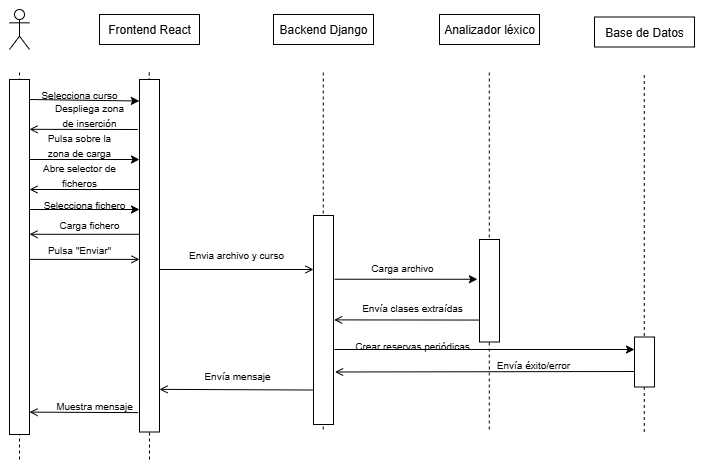
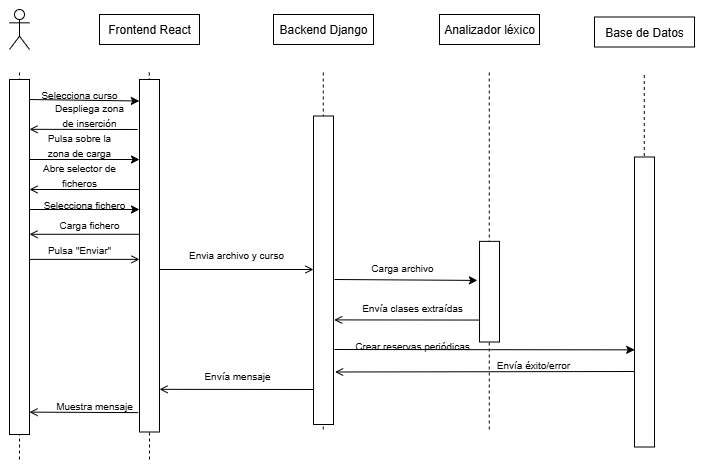
Últimas correcciones documentación

diff --git a/doc/tex/B_Requisitos.tex b/doc/tex/B_Requisitos.tex
@@ -63,25 +63,25 @@ En este apartado se detallan todos los requisitos que debe  satisfacer la aplica
 		\item RF-04.4. Gestionar permisos.
 		\\La aplicación deberá de permitir asociar permisos concretos a cada rol definido en el sistema. Estos permisos lo que harán será determinar que operaciones o acciones puede realizar cada usuario sobre las reservas, informes, usuarios,... Permitiendo controlar de forma precisa el acceso a las distintas acciones, implantando un modelo de seguridad basado en los roles.
 	\end{itemize}
-	\item RF-06. Gestión de usuarios. 
+	\item RF-05. Gestión de usuarios. 
 	\\En este caso, como se ha mencionado en el requisito de la autenticación, esta funcionalidad será controlada mediante las credenciales asignadas a cada miembro de la universidad por la misma. De forma, que solo podrán existir usuarios que hayan sido designados por la misma institución. Pudiendo acceder usuarios que no se encuentren en base de datos, o editándolos que en este caso, serían los permisos y el rol asociado.
 	\begin{itemize}
-		\item RF-06.1. Crear usuario.
+		\item RF-05.1. Crear usuario.
 		\\El sistema deberá permitir que cuando un usuario no se encuentre en base de datos podrá iniciar sesión asignándole por defecto el rol de PDI. Aunque el sistema deberá permitir también que el administrador añada a usuarios asignándole el rol que crea necesario.
-		\item RF-06.2. Editar usuario.
+		\item RF-05.2. Editar usuario.
 		\\Como ya se ha mencionado, el sistema permitirá la edición de los usuarios será respecto a los roles asociado modificando su entrada en base de datos. Debido a que las credenciales no podrán ser modificadas por el sistema, sino que de eso se encargaría el sistema de la institución.
-		\item RF-06.3. Eliminar usuario.
+		\item RF-05.3. Eliminar usuario.
 		\\El sistema permitirá al usuario con permisos poder eliminar la entrada en base de datos del usuario correspondiente, eliminando así el rol asociado, de forma que cuando entre se le asignará el rol de PDI. Ya que denegar el acceso no dependerá del sistema de este proyecto.
 	\end{itemize}
-	\item RF-07. Cargar horarios desde hoja de cálculo.
+	\item RF-06. Cargar horarios desde hoja de cálculo.
 	\\ La aplicación deberá permitir la carga de horarios docentes a partir de una hoja de cálculo, con la estructura específica y unificada con las reglas expuestas. Esta funcionalidad permitirá transformar la información contenida en el fichero en reservas periódicas dentro del sistema, evitando que el gestor tenga que introducir de forma manualmente cada una de las clases. Además, permite automatizar la generación de reservas periódicas asociadas a la docencia a través del analizador léxico, y las generará teniendo en cuenta el calendario académico.
 	
-	\item RF-08. Gestión del calendario académico.
+	\item RF-07. Gestión del calendario académico.
 	\\ La aplicación deberá permitir la gestión del calendario académico utilizado para la generación y validación de reservas periódicas. Este calendario será la base para determinar los días lectivos, los periodos de docencia de cada cuatrimestre, los cambios de docencia, los días festivos, los periodos de exámenes y los periodos de solamente TFG. De esta forma, el sistema podrá crear las reservas docentes de manera coherente con la planificación oficial de la universidad, evitando generar ocupaciones en fechas en las que no exista actividad académica.
 	\begin{itemize}
-		\item RF-08.1. Crear calendario académico.
+		\item RF-07.1. Crear calendario académico.
 		\\ La aplicación deberá permitir al usuario autorizado crear un calendario académico. Para ello, se deberán introducir los datos principales, como el curso académico, la fecha de inicio y de fin del curso, los periodos de docencia, es decir, las fechas de inicio y de fin de ambos cuatrimestres, y los días lectivos.
-		\item RF-08.2. Editar calendario académico. 
+		\item RF-07.2. Editar calendario académico. 
 		\\El sistema debe permitir modificar el calendario existente, siempre que el usuario tenga los permisos necesarios. Se podrá modificar el tipo de día de uno en uno, o mediante rangos de fechas seleccionadas, permitiendo seleccionar el tipo de día al que quieren actualizarlo.
 	\end{itemize}
 \end{itemize}
@@ -162,7 +162,7 @@ A continuación, se describen los casos de uso identificados para el sistema. Ca
 		\toprule
 		\textbf{Versión}              & 1.0    \\
 		\textbf{Autor}                & Rebeca Cuesta Estépar \\
-		\textbf{Requisitos asociados} &  \\ RF-06
+		\textbf{Requisitos asociados} &  \\ RF-05
 		\textbf{Descripción}          & El administrador puede crear, modificar y eliminar entradas de usuario del sistema, se corresponderá al rol del usuario, ya que las credenciales no las comprueba la base de datos propia. Incluye búsqueda y listado de los usuarios. \\
 		\textbf{Precondición}         & El administrador tiene que estar autenticado, tiene que disponer de los permisos para la gestión de usuarios y la base de datos tiene que estar disponible. \\
 		\textbf{Acciones}             &
@@ -271,7 +271,7 @@ A continuación, se describen los casos de uso identificados para el sistema. Ca
 		\toprule
 		\textbf{Versión} & 1.0 \\
 		\textbf{Autor} & Rebeca Cuesta Estépar \\
-		\textbf{Requisitos asociados} & RF-05 \\
+		\textbf{Requisitos asociados} &  \\
 		\textbf{Descripción} & El administrador gestiona las entidades principales utilizadas por la aplicación, como aulas, grados, asignaturas, docentes, responsables e imparte. Esta gestión permite mantener actualizada la información base sobre la que posteriormente se crearán horarios, reservas puntuales y reservas periódicas. \\
 		\textbf{Precondición} & El administrador debe estar autenticado, disponer de permisos de administración y la base de datos debe estar disponible. \\
 		\textbf{Acciones} &
@@ -307,7 +307,7 @@ A continuación, se describen los casos de uso identificados para el sistema. Ca
 		\toprule
 		\textbf{Versión}              & 1.0    \\
 		\textbf{Autor}                & Rebeca Cuesta Estépar \\
-		\textbf{Requisitos asociados} &  \\
+		\textbf{Requisitos asociados} & RF-07 \\
 		\textbf{Descripción}          & El administrador o gestor carga en el sistema un horario de otro año\\
 		\textbf{Precondición}         & Que sea un usuario con permisos y que la base de datos se encuentre disponible para recoger los datos cargados \\
 		\textbf{Acciones}             &
@@ -380,7 +380,7 @@ A continuación, se describen los casos de uso identificados para el sistema. Ca
 		\toprule
 		\textbf{Versión}              & 1.0    \\
 		\textbf{Autor}                & Rebeca Cuesta Estépar \\
-		\textbf{Requisitos asociados} & RF-04 \\
+		\textbf{Requisitos asociados} &  \\
 		\textbf{Descripción}          & El administrador o el gestor consulta la ocupación del aula para una fecha específica o semanal (solo aparecen las reservas periódicas). El sistema muestra un horario con las horas que se encuentra ocupada o disponible al aula, en función del horario y de las reservas puntuales si así se requiere.\\
 		\textbf{Precondición}         & Que sea un usuario autenticado con el rol de gestor o de administrador, que los horarios y las reservas se encuentren cargadas en el sistema y que la base de datos esté disponible. \\
 		\textbf{Acciones}             &
@@ -416,7 +416,7 @@ A continuación, se describen los casos de uso identificados para el sistema. Ca
 		\toprule
 		\textbf{Versión}              & 1.0    \\
 		\textbf{Autor}                & Rebeca Cuesta Estépar \\
-		\textbf{Requisitos asociados} &  \\
+		\textbf{Requisitos asociados} & RF-03.1 \\
 		\textbf{Descripción}          & El administrador o gestor crea una reserva puntual de un aula en una fecha y un horario correcto, validando la disponibilidad. \\
 		\textbf{Precondición}         &  El usuario autenticado tiene que tener los permisos, que exista el aula y esté disponible y la base de datos y las restricciones se encuentren disponibles también.\\
 		\textbf{Acciones}             &
@@ -453,7 +453,7 @@ A continuación, se describen los casos de uso identificados para el sistema. Ca
 		\toprule
 		\textbf{Versión}              & 1.0    \\
 		\textbf{Autor}                & Rebeca Cuesta Estépar \\
-		\textbf{Requisitos asociados} &  \\
+		\textbf{Requisitos asociados} & RF-03 \\
 		\textbf{Descripción}          & El gestor o administrador revisa el estado de las solicitudes de reserva \\
 		\textbf{Precondición}         & El usuario tiene que estar autenticado y ha de tener los permisos, deben de existir solicitudes de reservas y la base de datos y las restricciones han de estar disponibles \\
 		\textbf{Acciones}             &
@@ -488,7 +488,7 @@ A continuación, se describen los casos de uso identificados para el sistema. Ca
 		\toprule
 		\textbf{Versión}              & 1.0    \\
 		\textbf{Autor}                & Rebeca Cuesta Estépar \\
-		\textbf{Requisitos asociados} &  \\
+		\textbf{Requisitos asociados} & RF-03.2 \\
 		\textbf{Descripción}          & El gestor o administrador decide modificar uno de los campos de la solicitud de reserva, y el sistema avisará al responsable de la reserva del cambio realizado \\
 		\textbf{Precondición}         & El usuario tiene que estar autenticado y ha de tener los permisos, deben de existir solicitudes de reservas y la base de datos y las restricciones han de estar disponibles \\
 		\textbf{Acciones}             &
@@ -527,7 +527,7 @@ A continuación, se describen los casos de uso identificados para el sistema. Ca
 		\toprule
 		\textbf{Versión}              & 1.0    \\
 		\textbf{Autor}                & Rebeca Cuesta Estépar \\
-		\textbf{Requisitos asociados} &  \\
+		\textbf{Requisitos asociados} & RF-03 \\
 		\textbf{Descripción}          & El administrador o gestor revisa las reservas puntuales solicitadas por los usuarios y decide su aprobación o rechazo según la disponibilidad. \\
 		\textbf{Precondición}         &  El usuario debe de tener permisos para poder aprobar o rechazar las solicitudes, tienen que existir reservas pendientes en el sistema, y la base de datos tiene que estar disponible\\
 		\textbf{Acciones}             &
@@ -575,7 +575,7 @@ A continuación, se describen los casos de uso identificados para el sistema. Ca
 		\toprule
 		\textbf{Versión}              & 1.0    \\
 		\textbf{Autor}                & Rebeca Cuesta Estépar \\
-		\textbf{Requisitos asociados} &  \\
+		\textbf{Requisitos asociados} & RF-03 \\
 		\textbf{Descripción}          & El gestor o administrador puede crear, modificar o eliminar reservas puntuales existentes, validando que no se violen las restricciones \\
 		\textbf{Precondición}         & El usuario debe tener los permisos de gestionar las reservas, que estas se encuentren registradas y la base de datos y las validaciones se encuentren disponibles \\
 		\textbf{Acciones}             &
@@ -622,7 +622,7 @@ A continuación, se describen los casos de uso identificados para el sistema. Ca
 		\toprule
 		\textbf{Versión}              & 1.0    \\
 		\textbf{Autor}                & Rebeca Cuesta Estépar \\
-		\textbf{Requisitos asociados} &  \\
+		\textbf{Requisitos asociados} & RF-03 \\
 		\textbf{Descripción}          & El gestor o administrador puede consultar el horario de grado. El sistema muestra las clases planificadas con su aula y hora.  \\
 		\textbf{Precondición}         &  El usuario autenticado tiene permisos , los horarios de los grados deben de estar cargados en el sistema y la base de datos tiene que estar disponible \\
 		\textbf{Acciones}             &
@@ -657,7 +657,7 @@ A continuación, se describen los casos de uso identificados para el sistema. Ca
 		\toprule
 		\textbf{Versión}              & 1.0    \\
 		\textbf{Autor}                & Rebeca Cuesta Estépar \\
-		\textbf{Requisitos asociados} & RF-6.2 \\
+		\textbf{Requisitos asociados} & RF-03 \\
 		\textbf{Descripción}          & El gestor o administrador crea, edita y elimina las reservas durante el periodo especificado, con la frecuencia especificada.  \\
 		\textbf{Precondición}         & Que sea un usuario autenticado con los permisos de reservas, los aulas y horarios disponibles estén cargados, y la base de datos se encuentre disponible.\\
 		\textbf{Acciones}             &
@@ -706,7 +706,7 @@ A continuación, se describen los casos de uso identificados para el sistema. Ca
 		\toprule
 		\textbf{Versión} & 1.0 \\
 		\textbf{Autor} & Rebeca Cuesta Estépar \\
-		\textbf{Requisitos asociados} & RF-08 \\
+		\textbf{Requisitos asociados} & RF-07 \\
 		\textbf{Descripción} & El gestor editor crea un nuevo calendario académico para un curso concreto, indicando los periodos docentes, días lectivos, festivos.\\
 		\textbf{Precondición} & El usuario debe estar autenticado, tener permisos de edición sobre el calendario académico y la base de datos debe estar disponible. \\
 		\textbf{Acciones} &
@@ -742,7 +742,7 @@ A continuación, se describen los casos de uso identificados para el sistema. Ca
 		\toprule
 		\textbf{Versión}              & 1.0    \\
 		\textbf{Autor}                & Rebeca Cuesta Estépar \\
-		\textbf{Requisitos asociados} &  \\
+		\textbf{Requisitos asociados} & RF-07 \\
 		\textbf{Descripción}          & El gestor o administrador puede consultar el calendario académico de la politécnica. El sistema mostrará el calendario indicando los días lectivos correspondientes a ambos semestres, los días correspondientes a exámenes de convocatoria, a TFG, los días festivos y los días que se produce un cambio de docencia.  \\
 		\textbf{Precondición}         &  El usuario autenticado tiene permisos, los tipos de día deben de estar cargados en el sistema y la base de datos tiene que estar disponible \\
 		\textbf{Acciones}             &
@@ -775,7 +775,7 @@ A continuación, se describen los casos de uso identificados para el sistema. Ca
 		\toprule
 		\textbf{Versión}              & 1.0    \\
 		\textbf{Autor}                & Rebeca Cuesta Estépar \\
-		\textbf{Requisitos asociados} &  \\
+		\textbf{Requisitos asociados} & RF-07 \\
 		\textbf{Descripción}          & El gestor o administrador modifica el tipo de día en el calendario académico. El sistema cambiará el tipo de día que había anteriormente por el seleccionado, y actualizará la información en la base de datos. \\
 		\textbf{Precondición}         &  El usuario autenticado tenga los permisos, que el calendario se encuentre cargado y que la base de datos esté disponible \\
 		\textbf{Acciones}             &
@@ -849,7 +849,7 @@ A continuación, se describen los casos de uso identificados para el sistema. Ca
 		\toprule
 		\textbf{Versión} & 1.0 \\
 		\textbf{Autor} & Rebeca Cuesta Estépar \\
-		\textbf{Requisitos asociados} & RF-02 \\
+		\textbf{Requisitos asociados} & RF-03 \\
 		\textbf{Descripción} & El PDI consulta las reservas y solicitudes que ha realizado, pudiendo comprobar su estado y visualizar la información asociada a cada una de ellas. \\
 		\textbf{Precondición} & El PDI debe estar autenticado y deben existir reservas o solicitudes asociadas a su usuario. \\
 		\textbf{Acciones} &
@@ -908,50 +908,4 @@ A continuación, se describen los casos de uso identificados para el sistema. Ca
 		\bottomrule
 	\end{tabularx}
 	\caption{CU-20 Editar reservas propias}
-\end{table}
-
-\begin{table}[p]
-	\centering
-	\begin{tabularx}{\linewidth}{ p{0.21\columnwidth} p{0.71\columnwidth} }
-		\toprule
-		\textbf{CU-22}    & \textbf{Gestión solicitud de reservas}\\
-		\toprule
-		\textbf{Versión}              & 1.0    \\
-		\textbf{Autor}                & Rebeca Cuesta Estépar \\
-		\textbf{Requisitos asociados} &  \\
-		\textbf{Descripción}          & El profesorado (PDI) puede solicitar reservas puntuales de aulas, y consultar el estado de sus solicitudes para ver si han sido procesadas, y en el caso de que sí, ver si han sido aprobadas o rechazadas \\
-		\textbf{Precondición}         & El usuario debe de estar autenticado, el aula solicitada debe de estar disponible y la base de datos y las restricciones disponibles \\
-		\textbf{Acciones}             &
-		\begin{enumerate}
-			\def\labelenumi{\arabic{enumi}.}
-			\tightlist
-			\item El PDI accede al apartado \emph{Mis solicitudes de reserva}
-			\item El sistema le muestra las opciones disponibles que son solicitar una nueva reserva o consultar el estado de las solicitudes
-			\item El PDI pulsa en \emph{Nueva solicitud}
-			\begin{enumerate}[label*=\arabic*., itemsep=0.5pt, topsep=0.5pt, leftmargin=1em]
-				\tightlist
-				\item El sistema muestra un formulario con los campos: fecha, hora inicio y fin, motivo, capacidad
-				\item El PDI completa los campos y envía la solicitud
-				\item El sistema añade la primera aula que cumpla con las restricciones
-				\item El sistema registra la solicitud con el estado \emph{Pendiente}
-			\end{enumerate}
-			\item El PDI selecciona la opción de \emph{Consultar estado}
-			\begin{enumerate}[label*=\arabic*., itemsep=0.5pt, topsep=0.5pt, leftmargin=1em]
-				\tightlist
-				\item El sistema muestra un listado con las solicitudes del usuario
-				\item El usuario puede filtrar por fechas o estado
-				\item El sistema actualiza la lista de acuerdo a los filtros
-			\end{enumerate}
-		\end{enumerate}\\
-		\textbf{Postcondición} & La solicitud de reserva queda creada con estado Pendiente, y el usuario puede consultar el estado de las solicitudes realizadas \\
-		\textbf{Excepciones}          &  
-		\begin{itemize}
-			\tightlist
-			\item \textbf{Ex1:} Ningún aula disponible para los datos introducidos \textrightarrow{} impedir envío y solicitar cambiar datos
-			\item \textbf{Ex2:} Solicitud duplicada \textrightarrow{} informar y evitar creación
-		\end{itemize}\\
-		\textbf{Importancia}          & Media-Alta \\
-		\bottomrule
-	\end{tabularx}
-	\caption{CU-22 Gestión solicitud de reservas}
 \end{table}

diff --git a/doc/tex/D_Manual_programador.tex b/doc/tex/D_Manual_programador.tex
@@ -12,14 +12,14 @@ El proyecto se organiza separando el código del \textit{backend} y del \textit{
 
 \section{Estructura de directorios}
 
-La estructura del proyecto se organiza separando la parte correspondiente al \textit{backend} y la parte correspondiente al \textit{frontend}. Esta división permite diferenciar claramente la lógica de negocio y acceso a datos, desarrollada con Django, de la interfaz de usuario, desarrollada con React. Por otro lado, tenemos el \textit{script SQL} de la base de datos llamado "BaseDeDatosHorario.sql", que se encuentra a la misma altura que el directorio del \textit{frontend} y del \textit{backend}.
+La estructura del proyecto se organiza separando la parte correspondiente al \textit{backend} y la parte correspondiente al \textit{frontend}. Esta división permite diferenciar claramente la lógica de negocio y acceso a datos, desarrollada con Django, de la interfaz de usuario, desarrollada con React. Por otro lado, el proyecto incluye un \textit{script SQL} de la base de datos llamado "BaseDeDatosHorario.sql", que se encuentra a la misma altura que el directorio del \textit{frontend} y del \textit{backend}.
 
 En los siguientes apartados se describe la organización de ambos bloques, indicando la finalidad de los principales directorios y ficheros que forman parte del proyecto. Esta explicación facilita la comprensión del código fuente y permite que otros desarrolladores puedan localizar de forma más sencilla los módulos principales de la aplicación.
 
 
 \subsection{Backend}
 
-El \textit{backend} de la aplicación se encuentra desarrollado con Django y contiene la lógica principal del sistema. En esta parte del proyecto se gestionan los modelos de datos, las rutas, las vistas, la autenticación, la comunicación con la base de datos y las operaciones relacionadas con horarios, reservas, calendario académico, aulas, docencia y usuarios.
+El \textit{backend} de la aplicación se ha desarrollado con Django y contiene la lógica principal del sistema. En esta parte del proyecto se gestionan los modelos de datos, las rutas, las vistas, la autenticación, la comunicación con la base de datos y las operaciones relacionadas con horarios, reservas, calendario académico, aulas, docencia y usuarios.
 
 En la Figura~\ref{fig:estructura-directorios-backend} se muestra la estructura principal de directorios correspondiente al \textit{backend} del proyecto.
 
@@ -113,7 +113,7 @@ El directorio \textit{login} contiene la pantalla de inicio de sesión y los ele
 
 El directorio \textit{reservas} agrupa las pantallas y componentes relacionados con la gestión de reservas puntuales y periódicas, incluyendo listados, formularios de creación y edición, y acciones asociadas a las solicitudes.
 
-Finalmente, el directorio \textit{shared} contiene elementos compartidos por diferentes módulos del \textit{frontend}, permitiendo reutilizar código común y mantener una estructura más organizada.
+Finalmente, el directorio \textit{shared} contiene elementos compartidos por diferentes módulos del \textit{frontend} como la modal de confirmación para eliminar, permitiendo reutilizar código común y mantener una estructura más organizada.
 
 Además de estos directorios, aparecen varios ficheros relevantes en la raíz del proyecto. El archivo \textit{App.jsx} define la estructura principal de la aplicación React y la organización general de sus rutas o componentes principales. El archivo \textit{main.jsx} actúa como punto de entrada de la aplicación. Los ficheros \textit{App.css} e \textit{index.css} contienen estilos globales utilizados por la interfaz.
 
@@ -236,6 +236,22 @@ Las pantallas que permiten crear o editar información utilizan formularios cont
 
 Cuando el usuario confirma una operación, el componente recoge los valores almacenados en el estado, realiza las comprobaciones necesarias en la interfaz y envía los datos al \textit{backend}. Posteriormente, en función de la respuesta recibida, se muestra un mensaje de confirmación o de error.
 
+\subsection{Modificación y mantenimiento del analizador de horarios}
+
+Una de las partes más importantes del proyecto es el analizador encargado de procesar los horarios proporcionados en formato Excel. Este componente permite interpretar la información contenida en la hoja de cálculo, identificar asignaturas, grupos, aulas, días y franjas horarias, y transformar dichos datos en reservas periódicas dentro de la aplicación.
+
+Debido a la importancia de este proceso, cualquier modificación sobre el analizador debe realizarse con especial cuidado. Antes de aplicar cambios directamente sobre el código integrado en la aplicación, se recomienda realizar las pruebas iniciales en el \textit{notebook} utilizado durante el desarrollo. Este \textit{notebook} ha servido como entorno de prueba para validar el funcionamiento del parser, comprobar la clasificación de celdas, revisar las expresiones regulares y verificar que la información extraída del Excel se interpreta correctamente.
+
+El uso del \textit{notebook} permite probar cambios de forma más rápida y controlada, sin afectar directamente al funcionamiento del sistema completo. Por ello, si se necesita modificar alguna regla de lectura, clasificación o normalización, es conveniente comprobar primero el resultado en dicho entorno y, una vez validado, trasladar los cambios al código definitivo de la aplicación.
+
+Para realizar pruebas sobre la carga de horarios se recomienda utilizar el fichero Excel situado en la carpeta de prototipos del proyecto. Este fichero se encuentra normalizado y adaptado al formato esperado por el analizador, por lo que permite comprobar el comportamiento del parser en un escenario controlado. En caso de que sea necesario modificar este Excel o crear uno nuevo, se deben revisar previamente las reglas definidas en la penúltima hoja del libro, donde se recogen las pautas utilizadas para estructurar la información.
+
+Estas reglas son importantes porque el analizador depende de una serie de patrones y estructuras para identificar correctamente los elementos del horario. Entre ellos se encuentran los nombre abreviados de las asignaturas, los códigos de estas, los grupos tanto teóricos como prácticos y las aulas. Si el formato del Excel cambia sin respetar las reglas, es posible que el parser no clasifique correctamente alguna celdas o que de error, por ejemplo, si se cambia la abreviatura de la asignatura y no se encuentra unificada con la hoja de Asignaturas de la que se extrae el diccionario de código-asignaturas. De esta forma no se podrían generar las reservas periódicas esperadas.
+
+Además debe prestarse especial atención a la normalización de los nombres de las aulas entre el Excel y la base de datos. El sistema incluye funciones específicas para adaptar los nombre leídos desde el Excel al formato almacenado en la base de datos. Transformando abreviaturas para que coincidan con los nombres registrados en la aplicación. Esta función transforma los prefijos <<Lab.>> y <<Lab>> en <<Laboratorio>> sino encuentra la estructura que siguen el nombre de las aulas, como por ejemplo <<Lab 42-A1>>, en ese caso lo transforma en <<Lab>> que es como se encuentran almacenadas en base de datos. Además elimina la palabra <<Aula>> salvo si es el aula de empresa o el <<Aula 0>>, elimina todo lo que viene entre paréntesis con ellos incluidos, y por último, cambia la abreviatura <<Inf.>> a <<Informática>>. De esta forma el resto del nombre que no modifica esta función, deberá de ser tal cual está en base de datos. Sino no encontrará el aula y no generará la reserva periódica aunque el analizador la haya extraído. Para ello consultar la nomenclatura de los aulas que tienen ahora mismo en el Excel unificado y no modificarla.
+
+También es recomendable ejecutar las pruebas unitarias asociadas al analizador después de realizar cualquier cambio. Estas pruebas comprueban la clasificación de celdas mediante expresiones regulares, la normalización de nombres de aulas y la generación de reservas periódicas a partir de clases leídas del Excel. De esta forma, se puede detectar rápidamente si una modificación ha provocado un comportamiento incorrecto.
+
 \subsection{Control de autenticación y permisos}
 
 El sistema diferencia las funcionalidades disponibles en función del rol asociado al usuario autenticado. Por este motivo, el programador debe tener en cuenta que algunas pantallas, botones o acciones solo deben mostrarse a determinados perfiles.
@@ -243,7 +259,6 @@ El sistema diferencia las funcionalidades disponibles en función del rol asocia
 En el \textit{frontend}, esta restricción se utiliza para adaptar la interfaz al rol del usuario, ocultando opciones que no le corresponden. Sin embargo, estas comprobaciones no son suficientes por sí solas, ya que un usuario podría intentar acceder manualmente a una ruta o enviar una petición no permitida.
 
 Por este motivo, las validaciones importantes deben realizarse también en el \textit{backend}, que es el encargado de garantizar que cada operación solo pueda ser ejecutada por usuarios autorizados.
-
 
 \section{Compilación, instalación y ejecución del proyecto}
 

diff --git a/doc/tex/A_Plan_proyecto.tex b/doc/tex/A_Plan_proyecto.tex
@@ -592,9 +592,11 @@ Duración: 3 semanas
 			\item Diseñar bonito el readme.
 		\end{enumerate}
 		\item\bloque{Revisión del Sprint}
-		
+		Al final de este sprint, se ha determinado que se han completado los objetivos propuestos al inicio, dando así por terminado el desarrollo del proyecto.
 		
 		\item\bloque{Gráfico}
+		El gráfico \textit{burndown chart} se puede ver en la figura~\ref{fig:burndown-sprint25}
+		\imagen{img/Sprint 25.png}{Gráfico de los commits realizados durante el Sprint 25}{fig:burndown-sprint25}
 	\end{itemize}
 \end{Sprint}
 

diff --git a/doc/anexos.tex b/doc/anexos.tex
@@ -369,7 +369,7 @@
 
 
 % Datos de portada
-\title{Herramienta de gestión de calendario EPS \\Documentación Técnica}
+\title{Herramienta de gestión de reservas y calendario EPS \\Documentación Técnica}
 \author{ Rebeca Cuesta Estépar}
 \tutor{Álvar Arnaiz González, Ana Serrano Mamolar}
 \date{\today}